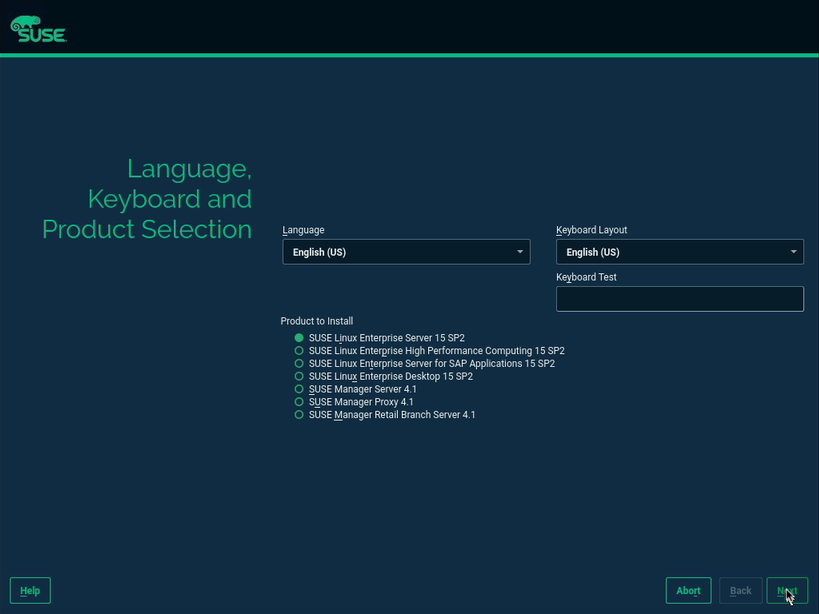
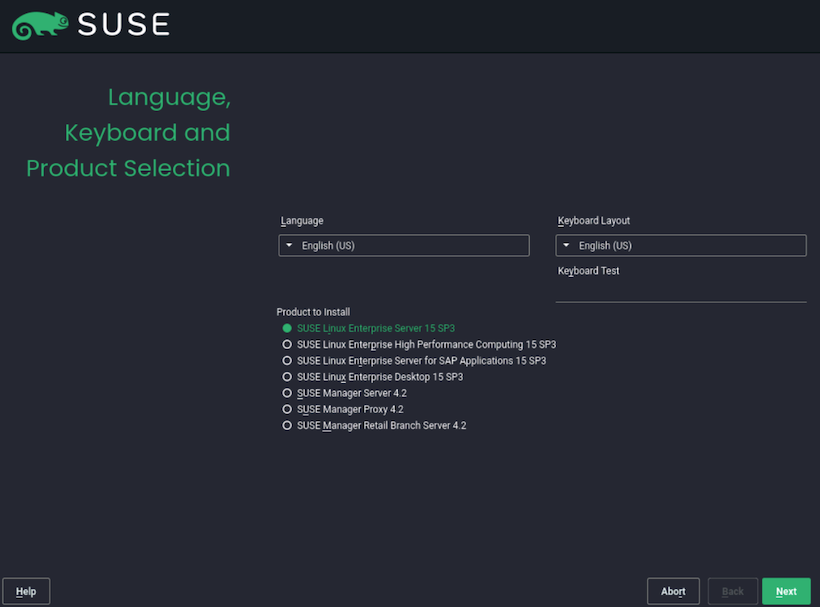
Update to SLE 15 SP3

diff --git a/install/InstallSLESonx86.md b/install/InstallSLESonx86.md
@@ -1,8 +1,8 @@
-# Installing SLES 15 SP2 on x86
+# Installing SLES 15 SP3 on x86
 
 ### At the end of the Lab you will have:
 
-- 2x SLES15 SP2 minimal install ready for RKE
+- 2x SLES15 SP3 minimal install ready for RKE
 - 8 GiB RAM (minimally)
 - Bridge Networking to your local network with access to the internet
 - 4 CPU
@@ -13,7 +13,7 @@
 - Containers Module installed
 - yast2, docker, sudo installed
 
-# Download SLE 15 sp2 media
+# Download SLE 15 SP3 media
 
 
 ### 1) Obtain media and registration key from <a href="https://scc.suse.com/admin/products/1939">the SCC</a>
@@ -40,7 +40,7 @@ if you don't see a Registration Code...click the Generate Registration code link
 
 ### 2) Boot off of iso
 
-### 3) Select Install SUSE Linux Enterprise Server 15 SP2
+### 3) Select Install SUSE Linux Enterprise Server 15 SP3
 
 <img src ="../assets/Core-Lab-1-install-1-language.png">
 
@@ -50,7 +50,7 @@ if you don't see a Registration Code...click the Generate Registration code link
 
 Accept additional update repositories from the Registration Server
 
-### 6) Select Containers Module 15 SP2 x86_64
+### 6) Select Containers Module 15 SP3 x86_64
 
 <img src="../assets/Core-Lab-1-install-4-selsect-containers-module.png">
 
